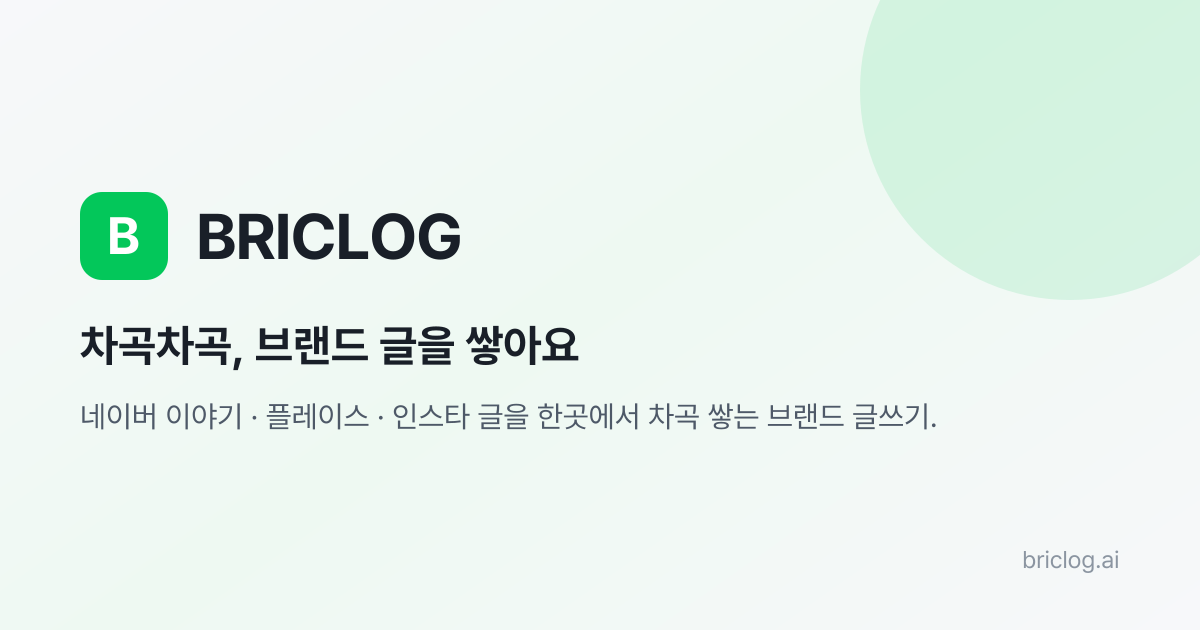
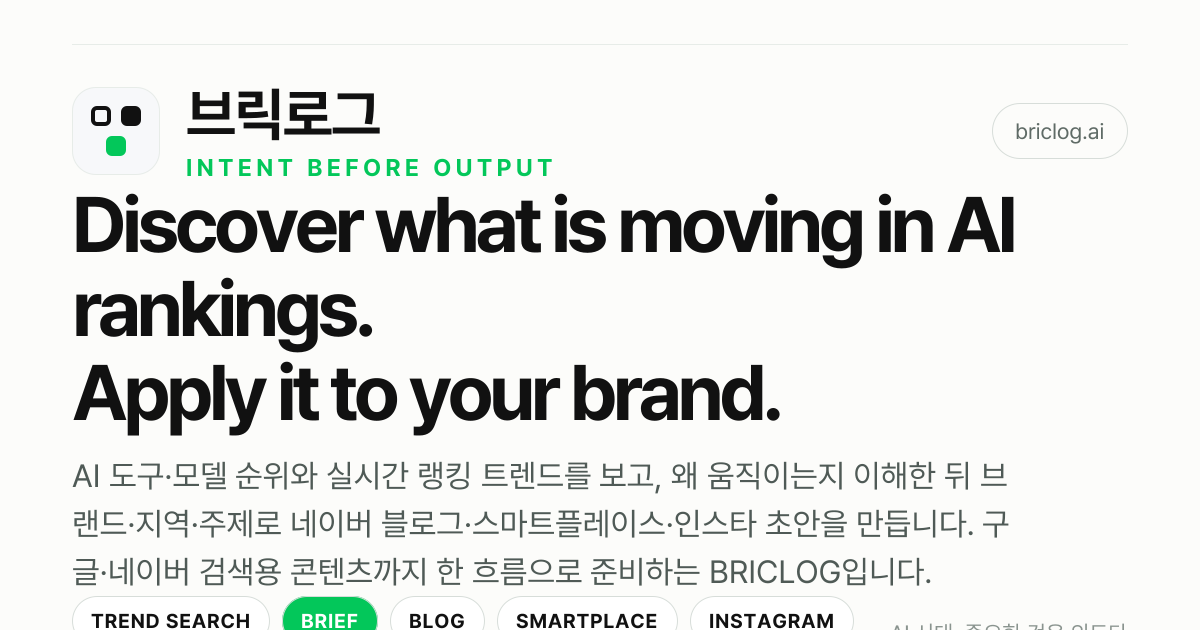
Close interrupted branding and assistant IA gaps.
Replace stale og.png with current 3-brick opengraph art and align help copy to Today-Brief-Create-Review-Library.

diff --git a/lib/assistant/knowledge.js b/lib/assistant/knowledge.js
@@ -49,7 +49,7 @@ export const QUICK_PROMPTS = [
   { id: "brand_habit", label: "브랜드 작업실·습관", category: "brand" },
   { id: "emoji", label: "이모지·문체 설정", category: "brand" },
   { id: "channels", label: "채널·연동 순서", category: "create" },
-  { id: "schedule", label: "운영 계획·스케줄", category: "create" },
+  { id: "schedule", label: "Plans·스케줄", category: "create" },
   { id: "mobile", label: "모바일 화면", category: "start" },
   { id: "generate", label: "글 만드는 방법", category: "create" },
   { id: "research", label: "자료조사·팩트 반영", category: "create" },
@@ -72,7 +72,7 @@ export const QUICK_TEXT = {
   brand_habit: "브랜드 작업실과 습관은 어떻게 쌓이나요?",
   emoji: "이모지·문체는 어디서 바꾸나요?",
   channels: "이야기·인스타·플레이스 연동 순서",
-  schedule: "이번 달·이번 주 운영 계획은 어디서 보나요?",
+  schedule: "Plans·Briefs에서 이번 주 운영은 어디서 보나요?",
   mobile: "모바일에서 메뉴는 어떻게 쓰나요?",
   generate: "이야기 쓰기로 글 만드는 방법",
   research: "자료조사는 어떻게 쓰나요? 글에 반영되나요?",
@@ -106,17 +106,17 @@ export function buildAssistantContext(ctx = {}) {
     `채널: ${kb.channels.join(", ")}`,
     `흐름: ${kb.workflow.join(" → ")}`,
     `이야기 연동 순서: ${formatAutoPipelineOrder()}.`,
-    `운영 계획: 사이드바 「${CHANNEL_PRODUCTS.plan.menuLabel}」 — 이번 주·이번 달 주제·채널 리듬.`,
+    `운영 계획: 사이드바 Brief 「${CHANNEL_PRODUCTS.plan.menuLabel}」 — 이번 주·이번 달 주제·채널 리듬.`,
     `자료조사: 이야기 폼 「${FORM_ADVANCED_SECTION}」 → 「자료조사 사용」. 조사 유형 예: ${RESEARCH_TYPE_LABELS}. 팩트 부족 시 생성이 멈출 수 있음.`,
     "화자: 같은 「더 맞추기」에서 선택. 방문 후기는 담백한 후기형·실사용 후기형 권장.",
-    `모바일: 하단 탭 ${formatMainChannelTabs()} + 더보기(운영 계획·작업실·기록·플랜)`,
-    "말투·이모지: 이야기 폼 더 맞추기 또는 브랜드 작업실",
+    `모바일: 하단 탭 ${formatMainChannelTabs()} + 더보기(Today · Briefs · Plans · Library · 플랜)`,
+    "말투·이모지: 이야기 폼 더 맞추기 또는 Briefs·브랜드 설정",
     `생성 한도: ${formatMonthlyLimits()}, 하루 약 ${limit}회`,
     `한도·요금: 우측 상단·사이드바 「${PLAN_UI_LABEL}」`,
     formatFreePlanChannelNote(),
     `요금제:\n${planSummaryLines().join("\n")}`,
     "환불·해지: 환불정책·구독 관리. 세부 금액은 추측하지 말 것.",
-    "발행 준비도: 브랜드·지역·주제·근거 축별 점수. 무료 테스트·작업실에서 확인.",
+    "발행 준비도: 브랜드·지역·주제·근거 축별 점수. 무료 테스트·Today·Create에서 확인.",
     "무료 테스트: 랜딩에서 발행 샘플 — 이야기·플레이스·인스타 미리보기 + 맥락 점수.",
     "도움말 AI: 오른쪽 아래 ? — 추천 질문 또는 직접 입력. FAQ 전체: briclog.ai/help",
     `FAQ (${knowledgeBase.faqCount || 15}항):\n${buildFaqKnowledgeBlock().slice(0, 6000)}`,

diff --git a/lib/assistant/matchTopic.js b/lib/assistant/matchTopic.js
@@ -187,9 +187,9 @@ export function matchQuickReply(message, ctx = {}) {
       reply:
         "모바일에서는 왼쪽 메뉴가 항상 보이지 않습니다.\n\n" +
         `· 하단 탭: ${formatMainChannelTabs()}\n` +
-        `· 더보기: ${CHANNEL_PRODUCTS.plan.menuLabel}, ${CHANNEL_PRODUCTS.growth.menuLabel}, ${CHANNEL_PRODUCTS.history.menuLabel}, 설정·${PLAN_UI_LABEL}\n` +
+        `· 더보기: Today, ${CHANNEL_PRODUCTS.growth.menuLabel}, ${CHANNEL_PRODUCTS.plan.menuLabel}, ${CHANNEL_PRODUCTS.history.menuLabel}, 설정·${PLAN_UI_LABEL}\n` +
         "· 오른쪽 아래 ? : 도움말\n\n" +
-        "PC에서는 왼쪽 메뉴가 고정됩니다.",
+        "PC에서는 왼쪽 메뉴가 Today → Brief → Create → Review · Library 순입니다.",
       topic: "시작하기",
     };
   }
@@ -459,8 +459,8 @@ export function matchQuickReply(message, ctx = {}) {
       reply:
         "처음 순서:\n1) 가입·로그인(휴대폰 문자 인증)\n2) 브랜드·주제·지역 입력\n" +
         `3) 필요하면 이야기 폼 「${FORM_ADVANCED_SECTION}」에서 자료조사·화자\n` +
-        `4) 「${CHANNEL_PRODUCTS.blog.generateLabel}」 또는 채널 메뉴에서 생성\n5) 복사·게시\n6) 초안 기록·${CHANNEL_PRODUCTS.growth.menuLabel}\n\n` +
-        `모바일은 하단 ${formatMainChannelTabs()}·더보기. 아래 버튼으로 주제를 골라 보세요.`,
+        `4) Today에서 오늘 주제 확인 → Create 「${CHANNEL_PRODUCTS.blog.generateLabel}」\n5) Review 점검 후 복사·게시\n6) Library·${CHANNEL_PRODUCTS.growth.menuLabel}에 보관\n\n` +
+        `모바일은 하단 ${formatMainChannelTabs()}·더보기(Today·Briefs·Plans·Library). 아래 버튼으로 주제를 골라 보세요.`,
       topic: "시작하기",
     };
   }

diff --git a/lib/brand/seo.js b/lib/brand/seo.js
@@ -234,11 +234,11 @@ export function buildOrganizationJsonLd(siteUrl) {
         url: siteUrl,
         description: BRAND_META_DESCRIPTION,
         featureList: [
-          "AI 트렌드 검색",
+          "AI 순위·랭킹 트렌드 보기",
           "왜 중요한지 이해하는 트렌드 맥락 요약",
           BRAND_LATEST_UPDATE.headline,
           "브랜드·지역·주제로 블로그·플레이스·인스타 초안",
-          "조사·맥락 점검 후 콘텐츠 생성",
+          "구글·네이버 검색·AI 브리핑에 유리한 설명형 초안",
           "발행 준비도 점검",
           "브랜드 말투·지역 기억",
           "채널별 톤 분리 · 복사 후 게시",

diff --git a/lib/assistant/runAssistantReply.js b/lib/assistant/runAssistantReply.js
@@ -18,7 +18,7 @@ const SYSTEM = `당신은 BRICLOG 공식 AI 도움말입니다. 고객의 궁금
 - 짧고 말하듯이 (3~8문장 또는 짧은 번호). 고객 질문에 직접 답할 것
 - 마크다운·별표 강조 금지
 - 기술 용어·외부 API 이름 노출 금지
-- 지금 할 행동을 먼저 (더 맞추기, 브랜드 작업실, 플랜, 무료 샘플, ? 도움말)
+- 지금 할 행동을 먼저 (Today, Briefs, Plans, Create, Review, Library, 플랜, 무료 샘플, ? 도움말)
 - 요금·환불은 추측하지 말고 환불정책·구독 관리 안내
 - 이메일·고객센터로 보내지 말 것 — ${IN_APP_HELP_HINT}
 - 한국어만

diff --git a/artifacts/postlogin-editorial-refresh/gap-close.md b/artifacts/postlogin-editorial-refresh/gap-close.md
@@ -1,0 +1,12 @@
+# Gap close — interrupted items
+
+Date: 2026-09-18
+
+## Closed
+1. **Favicon / preview concept** — `/favicon.svg`, `/apple-touch-icon.svg`, `/icon.svg`, BrandIcon, `/opengraph-image` already matched 3-brick mark. Stale `public/og.png` (old green B) replaced with current opengraph render.
+2. **Assistant IA copy** — knowledge / matchTopic / runAssistantReply aligned to Today · Brief(Briefs/Plans) · Create · Review · Library.
+3. **AI ranking SEO inflow** — already shipped (meta, guides, trend pages, JSON-LD).
+
+## Intentionally not shipped
+- Standalone `/admin` chrome parity (nice-to-have)
+- EN/KO label mix (product language)
